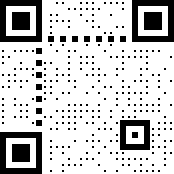
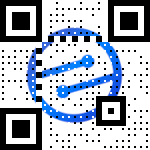
vaguely working for images

diff --git a/src/main.rs b/src/main.rs
@@ -4,15 +4,21 @@ use image;
 use std::env;
 
 fn main() {
+    
+    // for now "API" is CLI only, format of:
+    //         aqrr stringtoencode inputfile outputfile
+    // no options or anything yet, autoscales to the size of output file based on string length
+
     // deal with arguments
-    // TODO(Opal): make a proper API
+    // TODO: make a proper API
     let text_input = env::args().nth(1)
         .expect("Expected a code to output.");
     let path_input = env::args().nth(2)
-        .expect("Expected a filename to output to.");
+        .expect("Expected an input file.");
+    let path_output = env::args().nth(3)
+        .expect("Expected an output file.");
 
     // generate QR code
-    // TODO(Opal): remove dependency on qrcode
     let code = QrCode::new(text_input).unwrap();
     
     let string = code.render::<char>()
@@ -24,13 +30,15 @@ fn main() {
     let qrcolors = code.to_colors();
 
     // hardcoding "modules" as 6x6 with center two b&w for now
-    // TODO(Opal): make "modules" size adjustable
+    // TODO: make "modules" size adjustable
+    // TODO: tweak module size, etc to be more readable
     let imgscale: usize = 6;
     let imgwidth: u32 = (code.width() * imgscale) as u32;
     println!("code.width: {}, code.width*imgwidth: {}", code.width(), code.width()*code.width());
     println!("imgwidth: {}, imgwidth*imgwidth: {}", imgwidth, imgwidth*imgwidth);
 
-    let mut imgbuf = image::ImageBuffer::new(imgwidth, imgwidth);
+    // make the qr mask to apply over image (frames)
+    let mut qr_mask = image::ImageBuffer::new(imgwidth, imgwidth);
 
     for x in 0..imgwidth {
         for y in 0..imgwidth {
@@ -44,7 +52,7 @@ fn main() {
             
             // make the "modules" transparent on outsides for the overlay to work
             // we want to keep alignment and timing patterns fully opaque
-            // NOTE(Opal): ALIGNMENT_PATTERN_POSITIONS in qrcode has useful info, can make this cleaner
+            // NOTE: ALIGNMENT_PATTERN_POSITIONS in qrcode has useful info, can make this cleaner
             let mut alpha: u8 = 0;
             if (x as i32/2i32)%3 == 1 && (y as i32/2)%3 == 1 {alpha = 255 } // centers
             if modulex == 6 || moduley == 6 { alpha = 255 } // timing pattern
@@ -54,23 +62,18 @@ fn main() {
             if modulex > code.width() - 10 && modulex < code.width() - 4
                 && moduley > code.width() - 10 && moduley < code.width() - 4 { alpha = 255 }
             
-
-            imgbuf.put_pixel(x,y,image::Rgba([color[0], color[1], color[2], alpha]));
-
+            // TODO: generate mask in a way that isn't embarassing
+            qr_mask.put_pixel(x,y,image::Rgba([color[0], color[1], color[2], alpha]));
         }
     }
 
-    
-    let mut baseimg = image::open("underlay.png").unwrap();
-    image::imageops::overlay(&mut baseimg, &imgbuf, 0, 0);
+    // grab base image and resize to our preferred output size
+    // TODO: maintain input/output aspect ratio and center
+    let baseimg = image::open(path_input).unwrap();
+    let mut resized = baseimg.resize(imgwidth, imgwidth, image::imageops::FilterType::CatmullRom);
 
+    // throw overlay on the base image... this fundamentally what we're doing here
+    image::imageops::overlay(&mut resized, &qr_mask, 0, 0);
 
-
-    //baseimg.save(path_input).unwrap();
-    imgbuf.save(path_input).unwrap();
-
-    // whatever bullshit to convert QrCode to imgbuf
-
-	
-	
+    resized.save(path_output).unwrap();	
 }
